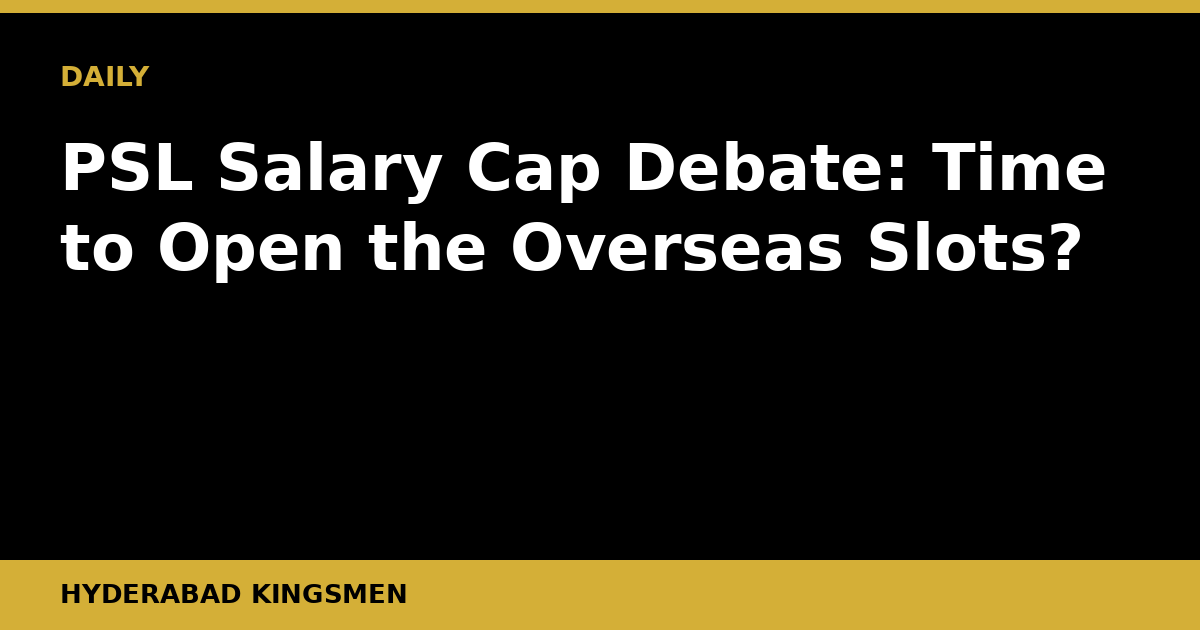
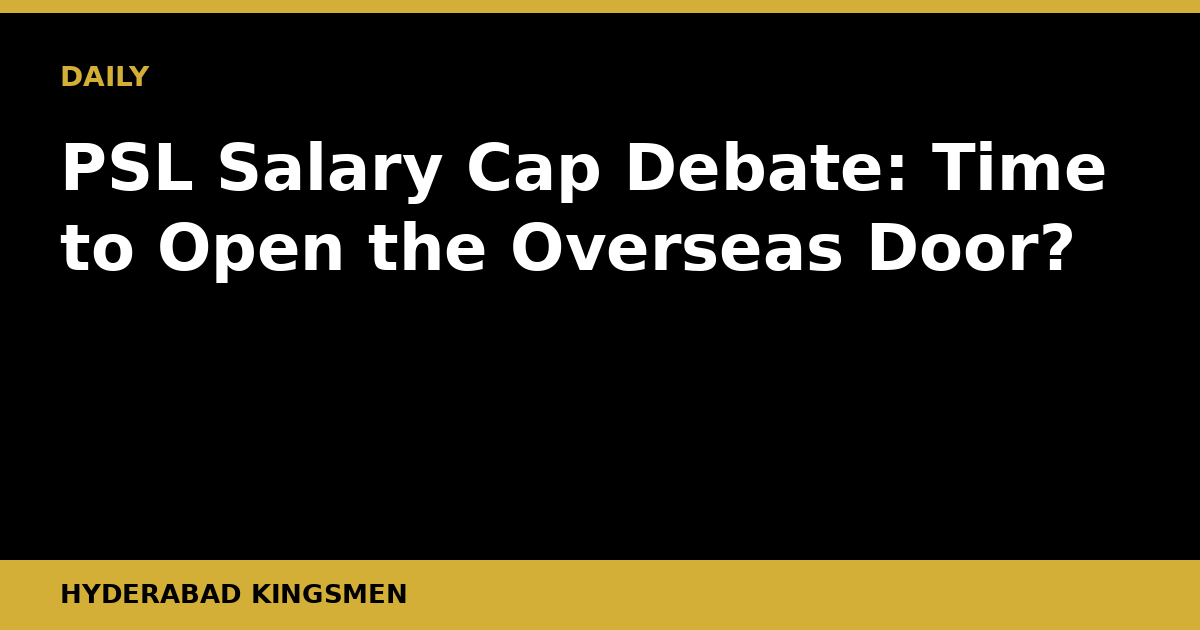
Daily post 2026-08-20

Changed region(s): [[0.7092, 0.3317, 0.925, 0.4524]]

diff --git a/content/posts/psl-salary-cap-overseas-slots-debate.md b/content/posts/psl-salary-cap-overseas-slots-debate.md
@@ -1,41 +1,45 @@
 ---
-title: "PSL Salary Cap Debate: Time to Open the Overseas Slots?"
+title: "PSL Salary Cap Debate: Time to Open the Overseas Door?"
 slug: "psl-salary-cap-overseas-slots-debate"
-date: "2026-07-15T03:54:29+05:00"
+date: "2026-08-20T02:13:29+05:00"
 draft: false
-description: "The PSL's overseas player quota is under scrutiny. Expanding slots and raising the salary cap could attract bigger names, but at what cost to local talent?"
+description: "The PSL's overseas player limits keep costs manageable but may be holding the league back from attracting marquee global names. Is it time for a rethink?"
 banner: "/banners/psl-salary-cap-overseas-slots-debate.png"
 kicker: "ANALYSIS"
 author: "Hyderabad Kingsmen"
 translationKey: "psl-salary-cap-overseas-slots-debate"
-tags: ["psl", "pakistan-cricket", "psl-salary-cap", "overseas-players", "franchise-cricket", "pcb", "t20-cricket"]
+tags: ["psl", "pakistan-cricket", "psl-salary-cap", "overseas-players", "hyderabad-kingsmen", "franchise-cricket", "pcb"]
 categories: ["Analysis"]
 ---
 
-The Pakistan Super League has come a long way since its first edition in 2016, but a familiar question keeps resurfacing in franchise boardrooms and fan forums alike: is the current overseas player structure holding the league back from genuine global prestige?
+The Pakistan Super League has grown into a credible franchise competition, but a familiar question keeps surfacing in boardrooms and fan forums alike: is the overseas player cap strangling the league's ambition before it fully realises its potential?
 
-## The Real Argument Beneath the Surface
+## The Real Issue
 
-This debate is not simply about how many foreign cricketers can pull on a PSL shirt. It is about what kind of league Pakistan wants to build, and how quickly. Right now, franchises are permitted a limited number of overseas players per playing XI, and the salary cap keeps overall spending in check. The system was designed to protect domestic talent, keep costs manageable, and give Pakistani players meaningful game time. Those are legitimate goals. But critics argue the structure also keeps the PSL from landing the marquee overseas names that would grow the league's broadcast footprint and global reputation.
+This is not simply an argument about money. It is about perception, marketability, and whether the PSL can position itself alongside the IPL, the BBL, and the SA20 as a destination that elite overseas cricketers genuinely want to play in, rather than one they settle for when other windows are full.
 
-The Indian Premier League routinely signs the biggest names on the planet. The SA20, only a couple of seasons old, has already pulled in high-profile internationals by offering competitive money. Even the Caribbean Premier League, with its comparatively modest resources, regularly features prominent Test and T20 stars. The PSL, meanwhile, often finds itself working with second-tier overseas picks or players whose best years are behind them, not because Pakistan lacks ambition, but because the financial ceiling and limited slots make it hard to compete.
+Currently, PSL franchises are permitted a limited number of overseas spots per squad, with strict salary-cap structures governing what they can offer. The intent is sound: protect Pakistan's domestic talent pipeline, keep franchises financially stable, and stop the richest franchise from simply buying every available star. Those are legitimate goals. But the blunt instrument of a tight overseas cap has a side effect that is increasingly difficult to ignore. When the biggest names in world cricket weigh their T20 options, the PSL rarely makes the shortlist.
 
-## What Expanding the Cap Would Actually Mean
+Look at who has come through Lahore, Karachi, Peshawar, Multan, Islamabad, Quetta, and now Hyderabad over the years. There have been quality international performers, certainly. But the league has rarely landed the kind of signing that generates a global headline on its own. No Stokes. No Buttler. No Suryakumar. The salary arithmetic, combined with the limited number of spots, makes it very hard for franchises to build a compelling pitch to a player who already has IPL retention money or an SA20 deal on the table.
 
-Raising the salary cap and increasing overseas slots would do several things at once. It would allow franchises to pursue active, high-ranked international players rather than waiting for someone's availability or willingness to accept a discounted fee. It would raise the overall quality of play and, by extension, the broadcasting and sponsorship value of the league. A PSL that can sign a Jos Buttler, a Suryakumar Yadav-equivalent from another nation, or a Kagiso Rabada in his prime looks very different on an international stage.
+## The Counter-Argument Is Not Weak
 
-But there is an obvious downside, and Pakistani cricket fans should not dismiss it. More overseas slots mean fewer opportunities for domestic players who currently use the PSL as a bridge between regional cricket and national selection. The PSL has been genuinely effective in this regard. Players from Karachi, Lahore, Hyderabad, Quetta, and beyond have used the league to catch the national selectors' eye. Constrict that pipeline, and the national team eventually feels the effects. Pakistan's batting depth in particular remains a concern at international level, and the PSL is one of the few high-pressure environments where young batters can develop under scrutiny.
+Those who defend the existing structure have a point worth respecting. Pakistan has a staggering depth of domestic talent that needs competitive game time. If franchises are given six or seven overseas slots per playing XI and the budget to fill them, it is the domestic middle-order batter or the promising young spinner from Hyderabad or Faisalabad who gets squeezed out. The PSL has worked because it has served as a genuine showcase for Pakistan cricket, giving selectors a curated look at players in high-pressure franchise conditions. That function must be preserved.
 
-Franchises like the Hyderabad Kingsmen, which have leaned into nurturing local Sindhi talent alongside experienced Pakistan internationals, could find their entire recruitment philosophy disrupted if the rules shift dramatically toward overseas recruitment. That matters beyond just one franchise. It reflects a broader question about whether the PSL serves Pakistani cricket development or operates as a standalone commercial product.
+There is also the financial reality. PSL franchise valuations, while growing, are not remotely comparable to IPL numbers. The broadcast money that would allow a franchise to pay a globally elite overseas player what he would command simply does not exist yet at the same scale. Increasing overseas slots without a corresponding revenue surge could push smaller franchises toward insolvency.
 
 ## A Middle Path Worth Exploring
 
-The most sensible reform may not be wholesale expansion of overseas slots but a targeted revision. The PCB and PSL could consider raising the salary cap selectively, creating a designated marquee player category with a higher individual ceiling while keeping the overall overseas headcount similar to current levels. This would allow one or two genuine global stars per franchise without flooding the playing XIs with foreign names. It mirrors what some other leagues have done successfully, separating the marquee tier from standard overseas contracts.
+The smarter debate is not whether to tear up the current model, but whether the PCB and the franchise owners can engineer a targeted expansion. One proposal worth serious consideration is a designated marquee overseas slot, one per franchise, sitting outside the standard salary cap calculations, funded either through a central pool or through enhanced title sponsorship that the PCB negotiates specifically for this purpose. This is broadly how some other leagues have attracted their headline acts without distorting their entire wage structure.
 
-Additionally, the PCB should look at whether the current franchise fee and revenue-sharing models actually give teams enough room to compete for top-tier overseas talent. A raised salary cap means nothing if franchises cannot generate the revenue to fund it. Broadcast rights negotiations and stadium attendance remain areas where the PSL still has significant growth potential.
+If even one or two franchises could land a genuinely marquee name each season, the downstream effects on broadcast value, ticket sales, and international media attention would likely more than recover the cost. The Hyderabad Kingsmen, as one of the newer franchises still building their brand identity, would arguably benefit enormously from a single globally recognisable overseas face in their setup.
+
+The PCB could also explore more creative scheduling coordination with other boards. One of the structural reasons Pakistan misses out on top-tier overseas players is simple calendar clutter. If the PCB can negotiate clearer windows in cooperation with the ECB and Cricket Australia, the talent pool available to PSL franchises expands even before a single cap rule changes.
 
 ## What to Watch Next
 
-The upcoming PCB governance meetings and any pre-auction announcements ahead of PSL 11 will be the real signal of intent. Watch whether the player retention rules are adjusted, whether the platinum category is restructured, and whether any franchise publicly lobbies for expanded overseas access. Equally, monitor how national team coach Jason Gillespie and chief selector Salim Altaf view the PSL's role in preparing Pakistan's Test and white-ball squads. Their position on domestic exposure will likely shape the PCB's appetite for reform.
+The PSL governing council and franchise owners are expected to hold discussions ahead of the next cycle of player drafts and salary reviews. The pressure to act is building, partly because the SA20 and the ILT20 have demonstrated that newer leagues can pull genuinely high-profile overseas names with the right financial architecture.
 
-The PSL is a good league. The question is whether Pakistan cricket is ready to make the compromises necessary to make it a great one.
+The Hyderabad Kingsmen are entering a phase where recruitment strategy will define what kind of club they become. How the overseas slot question is resolved will shape that decision for them and every other franchise.
+
+The PCB has been cautious, sometimes admirably so, about protecting what makes the PSL work. But caution that shades into inertia carries its own risk. The global T20 market is not waiting.
